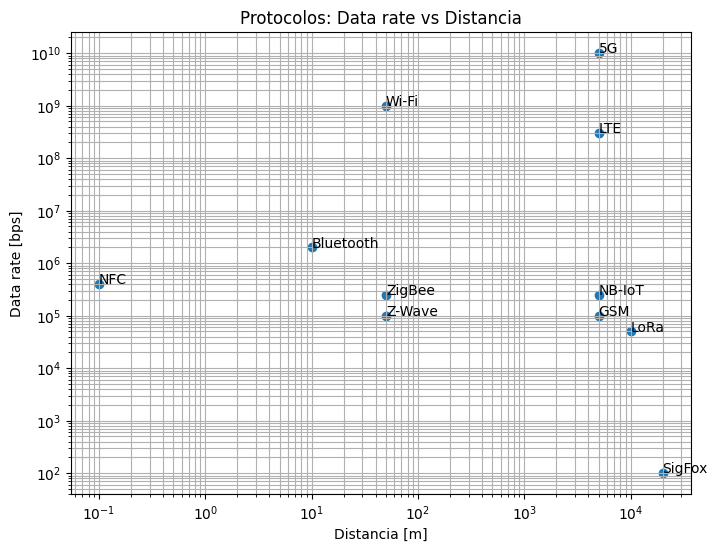
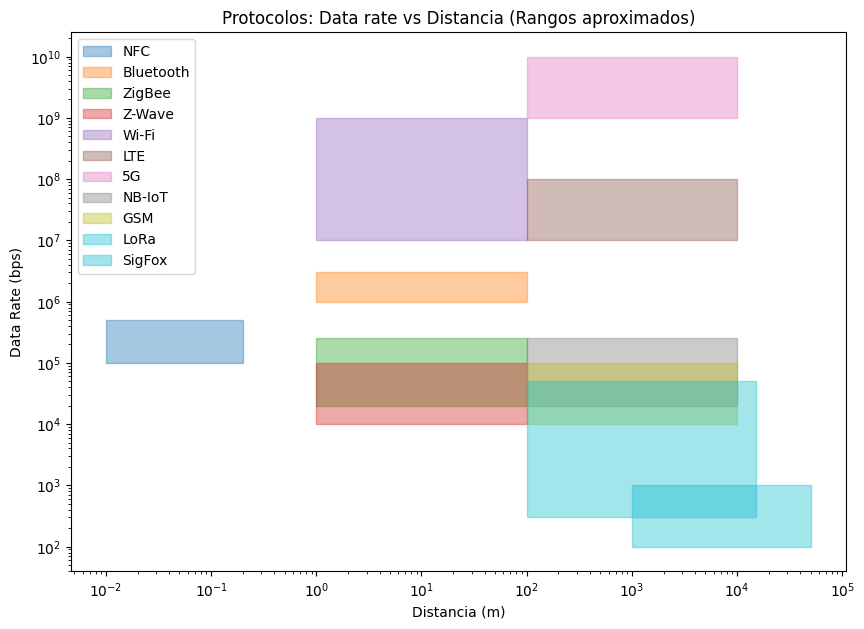
Fix graphic data rate vs distance

diff --git a/TP3/TP3-WAN_da.md b/TP3/TP3-WAN_da.md
@@ -101,6 +101,7 @@ Cuando la red Wi-Fi está configurada para operar con una versión de protocolo 
 Tabla 1: Cuadro comparativo Wi-Fi 5 / Wi-Fi 6 / Wi-Fi 7
 
 ![Timeline Wi-Fi 5/6/6E/7](timeline_wifi.png)
+
 Figura 1.2: [Evolución de los estándares Wi-Fi según IEEE 802.11](https://www.arrow.com/es-mx/research-and-events/articles/the-evolution-of-wi-fi-technologies-wi-fi-7)
 
 ## Resultados
@@ -149,6 +150,8 @@ a. En el siguiente cuadro se puede visualizar los protocolos inalambricos mas co
 | SigFox | No | Tecnología propietaria de SigFox, no estandarizada por IEEE/3GPP |
 | Z-Wave | Si | Estándar abierto gestionado por la Z-Wave Alliance bajo ITU-T G.9959 (última versión 2020)|
 
+Tabla 3: Cuadro de protocolos inalámbricos y sus estándares
+
 b. La relación Data rate vs Distancia se realizo mediante el script contenido en [data_rate_vs_distance](data_rate_vs_distance.ipynb):
 
 ![alt text](data_rate_vs_distance.png)
@@ -165,7 +168,7 @@ De este gráfico se puede concluir lo siguiente:
   2. LTE tiene mayor data rate y mantiene una distancia de varios km.
   3. 5G combina muy alta velocidad con cobertura urbana.
 
-c. La siguiente tabla muestra las caracteristicas d elos sigueintes medios de transmisión:
+c. La siguiente tabla muestra las caracteristicas de los siguientes medios de transmisión:
 | **Característica**                               | **UTP**                                                  | **Fibra Óptica**                                       | **Wi-Fi 802.11be (Wi-Fi 7)**                          | **Bluetooth 5.4**                                 | **5G**                                                     |
 | ------------------------------------------------ | -------------------------------------------------------- | ------------------------------------------------------ | ----------------------------------------------------- | ------------------------------------------------- | ---------------------------------------------------------- |
 | **Ancho de banda**                               | Hasta 1–10 Gbps (Cat 5e/6/6a), hasta 40–100 Gbps (Cat 8) | Hasta 400 Gbps–1 Tbps                                  | Hasta 40 Gbps teóricos                                | Hasta 2 Mbps                                      | Hasta 10 Gbps (teórico, dependiendo de banda)              |
@@ -174,7 +177,9 @@ c. La siguiente tabla muestra las caracteristicas d elos sigueintes medios de tr
 | **Costos de medios / conectores / dispositivos** | Bajo (cable económico, conectores RJ-45 baratos)         | Alto (fibra y transceptores más costosos)              | Medio (APs y tarjetas Wi-Fi son accesibles)           | Muy bajo (chipsets baratos, integrado en móviles) | Alto (infraestructura costosa, dispositivos más caros)     |
 | **¿Disponible en Packet Tracer?**                | Sí                                                       | Sí (limitado, enlaces de fibra entre switches/routers) | Sí (APs inalámbricos 802.11ac/ax, aunque 11be aún no) | No                                                | No                                                         |
 
----
+
+Tabla 4: Medios de transmisión
+
 
 ## Fuentes consultadas
 
